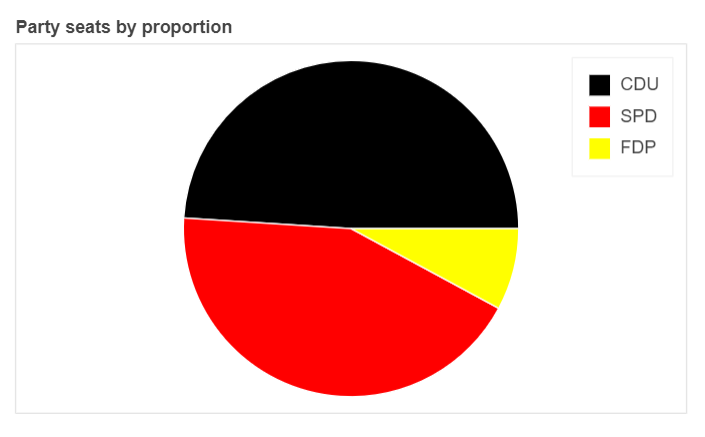
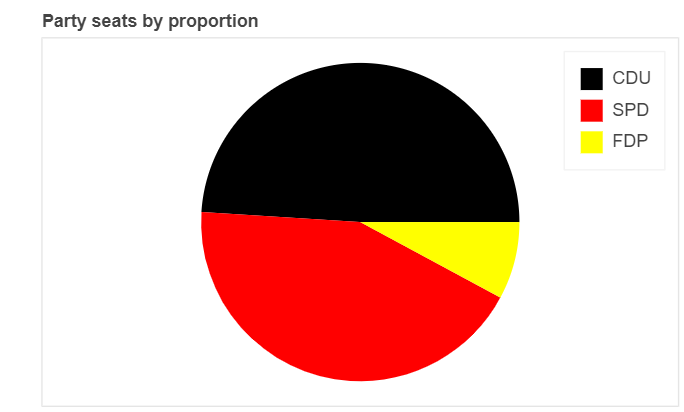
Updated README file

diff --git a/README.md b/README.md
@@ -26,7 +26,7 @@ There are two ways in which you can display the visualisations created using Bok
 ![output](images/bokeh_loaded.png)
 
     
- ### **Bar Charts**
+### **Bar Charts**
 
 Bar charts are tools used to visualise amounts. You can create *vertical* or *horizontal* bar charts with Bokeh as follows:
 
@@ -266,7 +266,7 @@ You can make a Pie chart showing the proportion of the total seats each party ho
             radius=0.25,
             start_angle=cumsum("angle", include_zero=True),
             end_angle=cumsum("angle"),
-            line_color="white",
+            line_color=None,
             legend_field="party",
             color="color",
             source=df)
@@ -392,3 +392,5 @@ A horizontal line is also drawn to clearly show the threshold where the particip
 ![output](images/line_plot.png "Line and Scatter plot")
 
 The `scatter` method is used to plot the percentage points against the year while the `line` method is used to join the plot points together. The `hover` tool is used to add interactive options on the scatter points to show the actual values.
+
+When plotting multiple Bokeh plots in one figure, it's important to note that the plots are displayed in the order of their calling. In our last example, the line plot was displayed first before the scatter plots, which were then overlaid on top of it.
